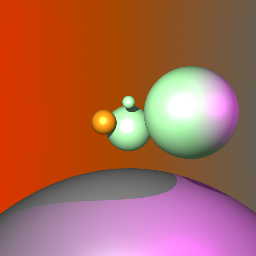
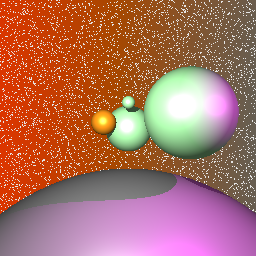
A4: Submittable

diff --git a/A4.cpp b/A4.cpp
@@ -28,7 +28,7 @@ vec3 randUnitVector(){
 		randVec.y = rand_float();
 		randVec.z = 0.0f;
 
-	}while(length(randVec) >= 1.0f);
+	}while(length2(randVec) >= 1.0f);
 	return randVec;
 }
 
@@ -172,7 +172,7 @@ void A4_Render(
 
 			// Anti-Aliasing
 			if (ANTI_ALIASING >= 1 ){
-				size_t samplesPerPixel = 15;
+				size_t samplesPerPixel = 5;
 				for (int i =0;i < samplesPerPixel;++i){
 					ray.setDirection(dirVec + randUnitVector() * (uVec +vVec) * 0.5);
 					pixelColorVec += rayTraceRGB(root,ray,eye,ambient,lights);

diff --git a/README.md b/README.md
@@ -1,0 +1,21 @@
+# A4 read me
+    
+## Compilation
+The program is located in the downloads folder. As a result, you have to **cd** into **~/Downloads/cs488/A4** .
+To run the program with sample.lua script eg simple.lua perform following operations:
+    $ premake4 gmake
+    $ make
+    $ ./A4 Assets/sample.lua
+output is sample.png in **~/Downloads/cs488/A4** 
+
+## Note
+- OBJ files need to be prefixed with **Assets/** in order to run lua scripts
+- **screenshot.png** uses anitialiasing/supersampling
+- **sample.png** samples per pixel reduced compared to **screenshot.png**
+
+## Manual
+- Anti-Aliasing implemented.
+- To run anti aliasing, **ANTI_ALIASING** is a macro defined in **~/Downloads/cs488/A4/A4.cpp**, set to 1 for anti-aliasing and 0 otherwise
+
+- Bounding spheres implemented.
+- To run bounding spheres, **RENDER_BOUNDING_VOLUMES** is a macro defined in **~/Downloads/cs488/A4/Mesh.hpp**, set to 1 for bounding sphere and 0 otherwise
